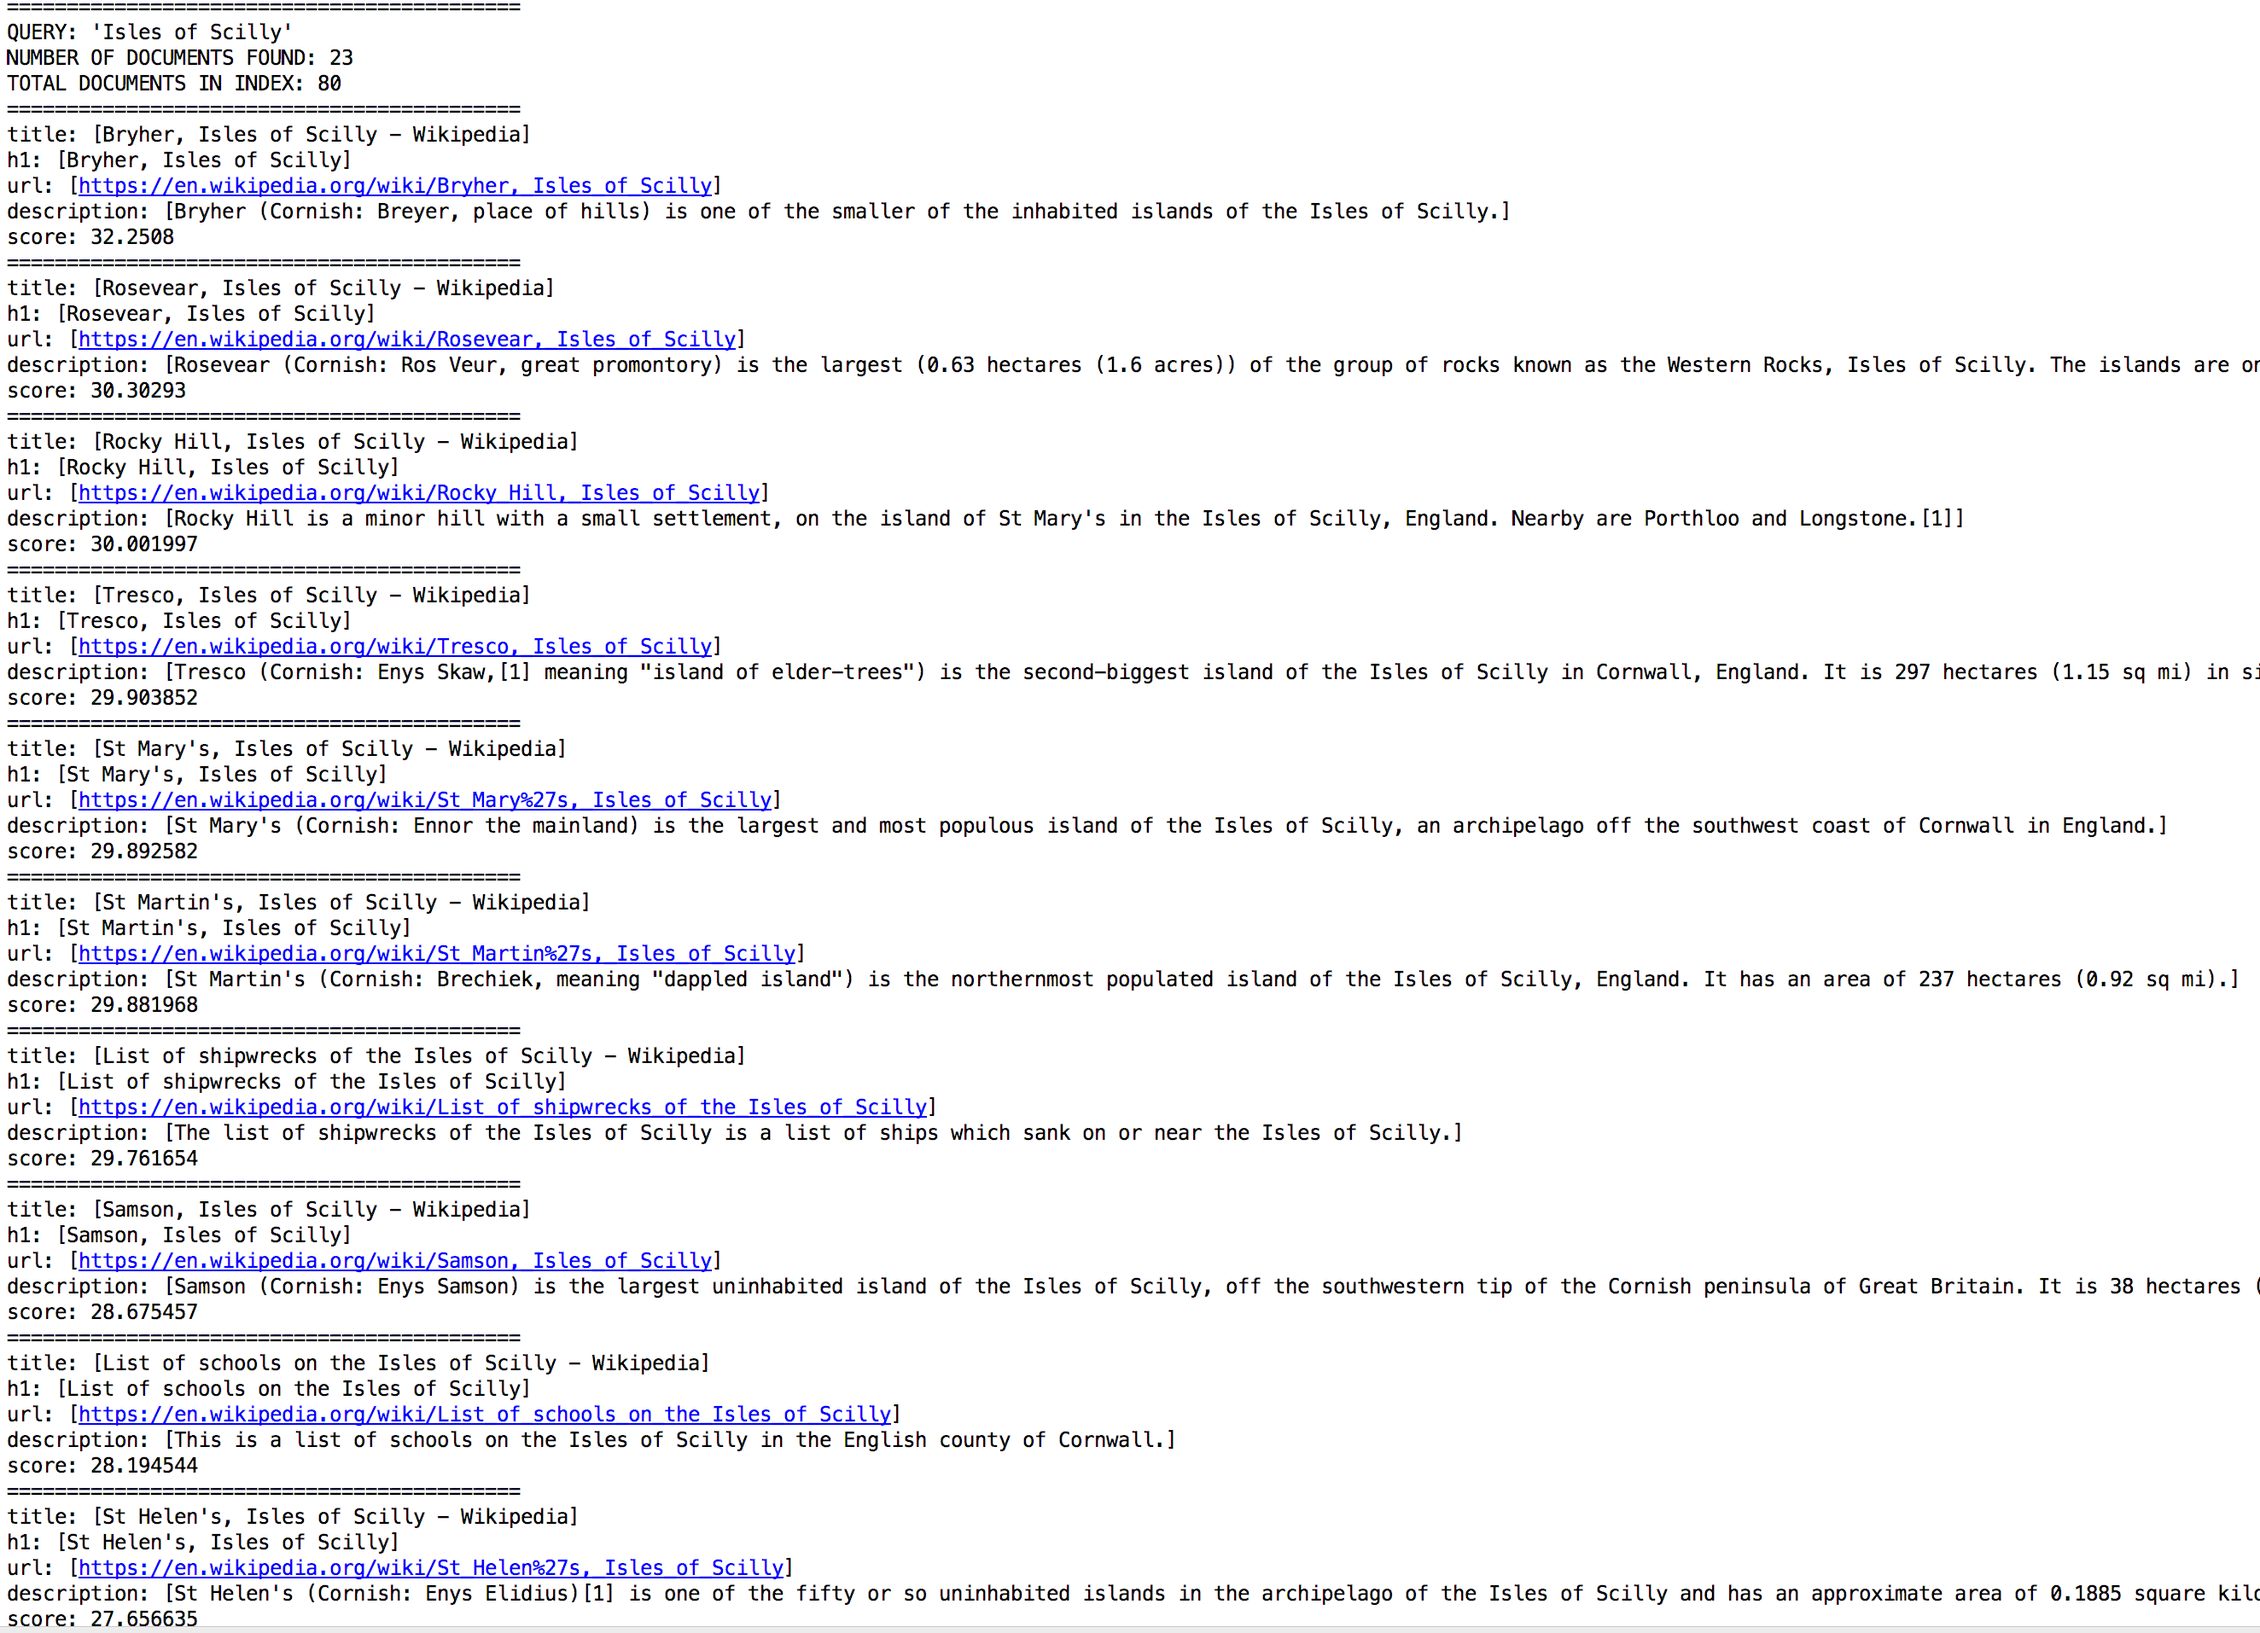
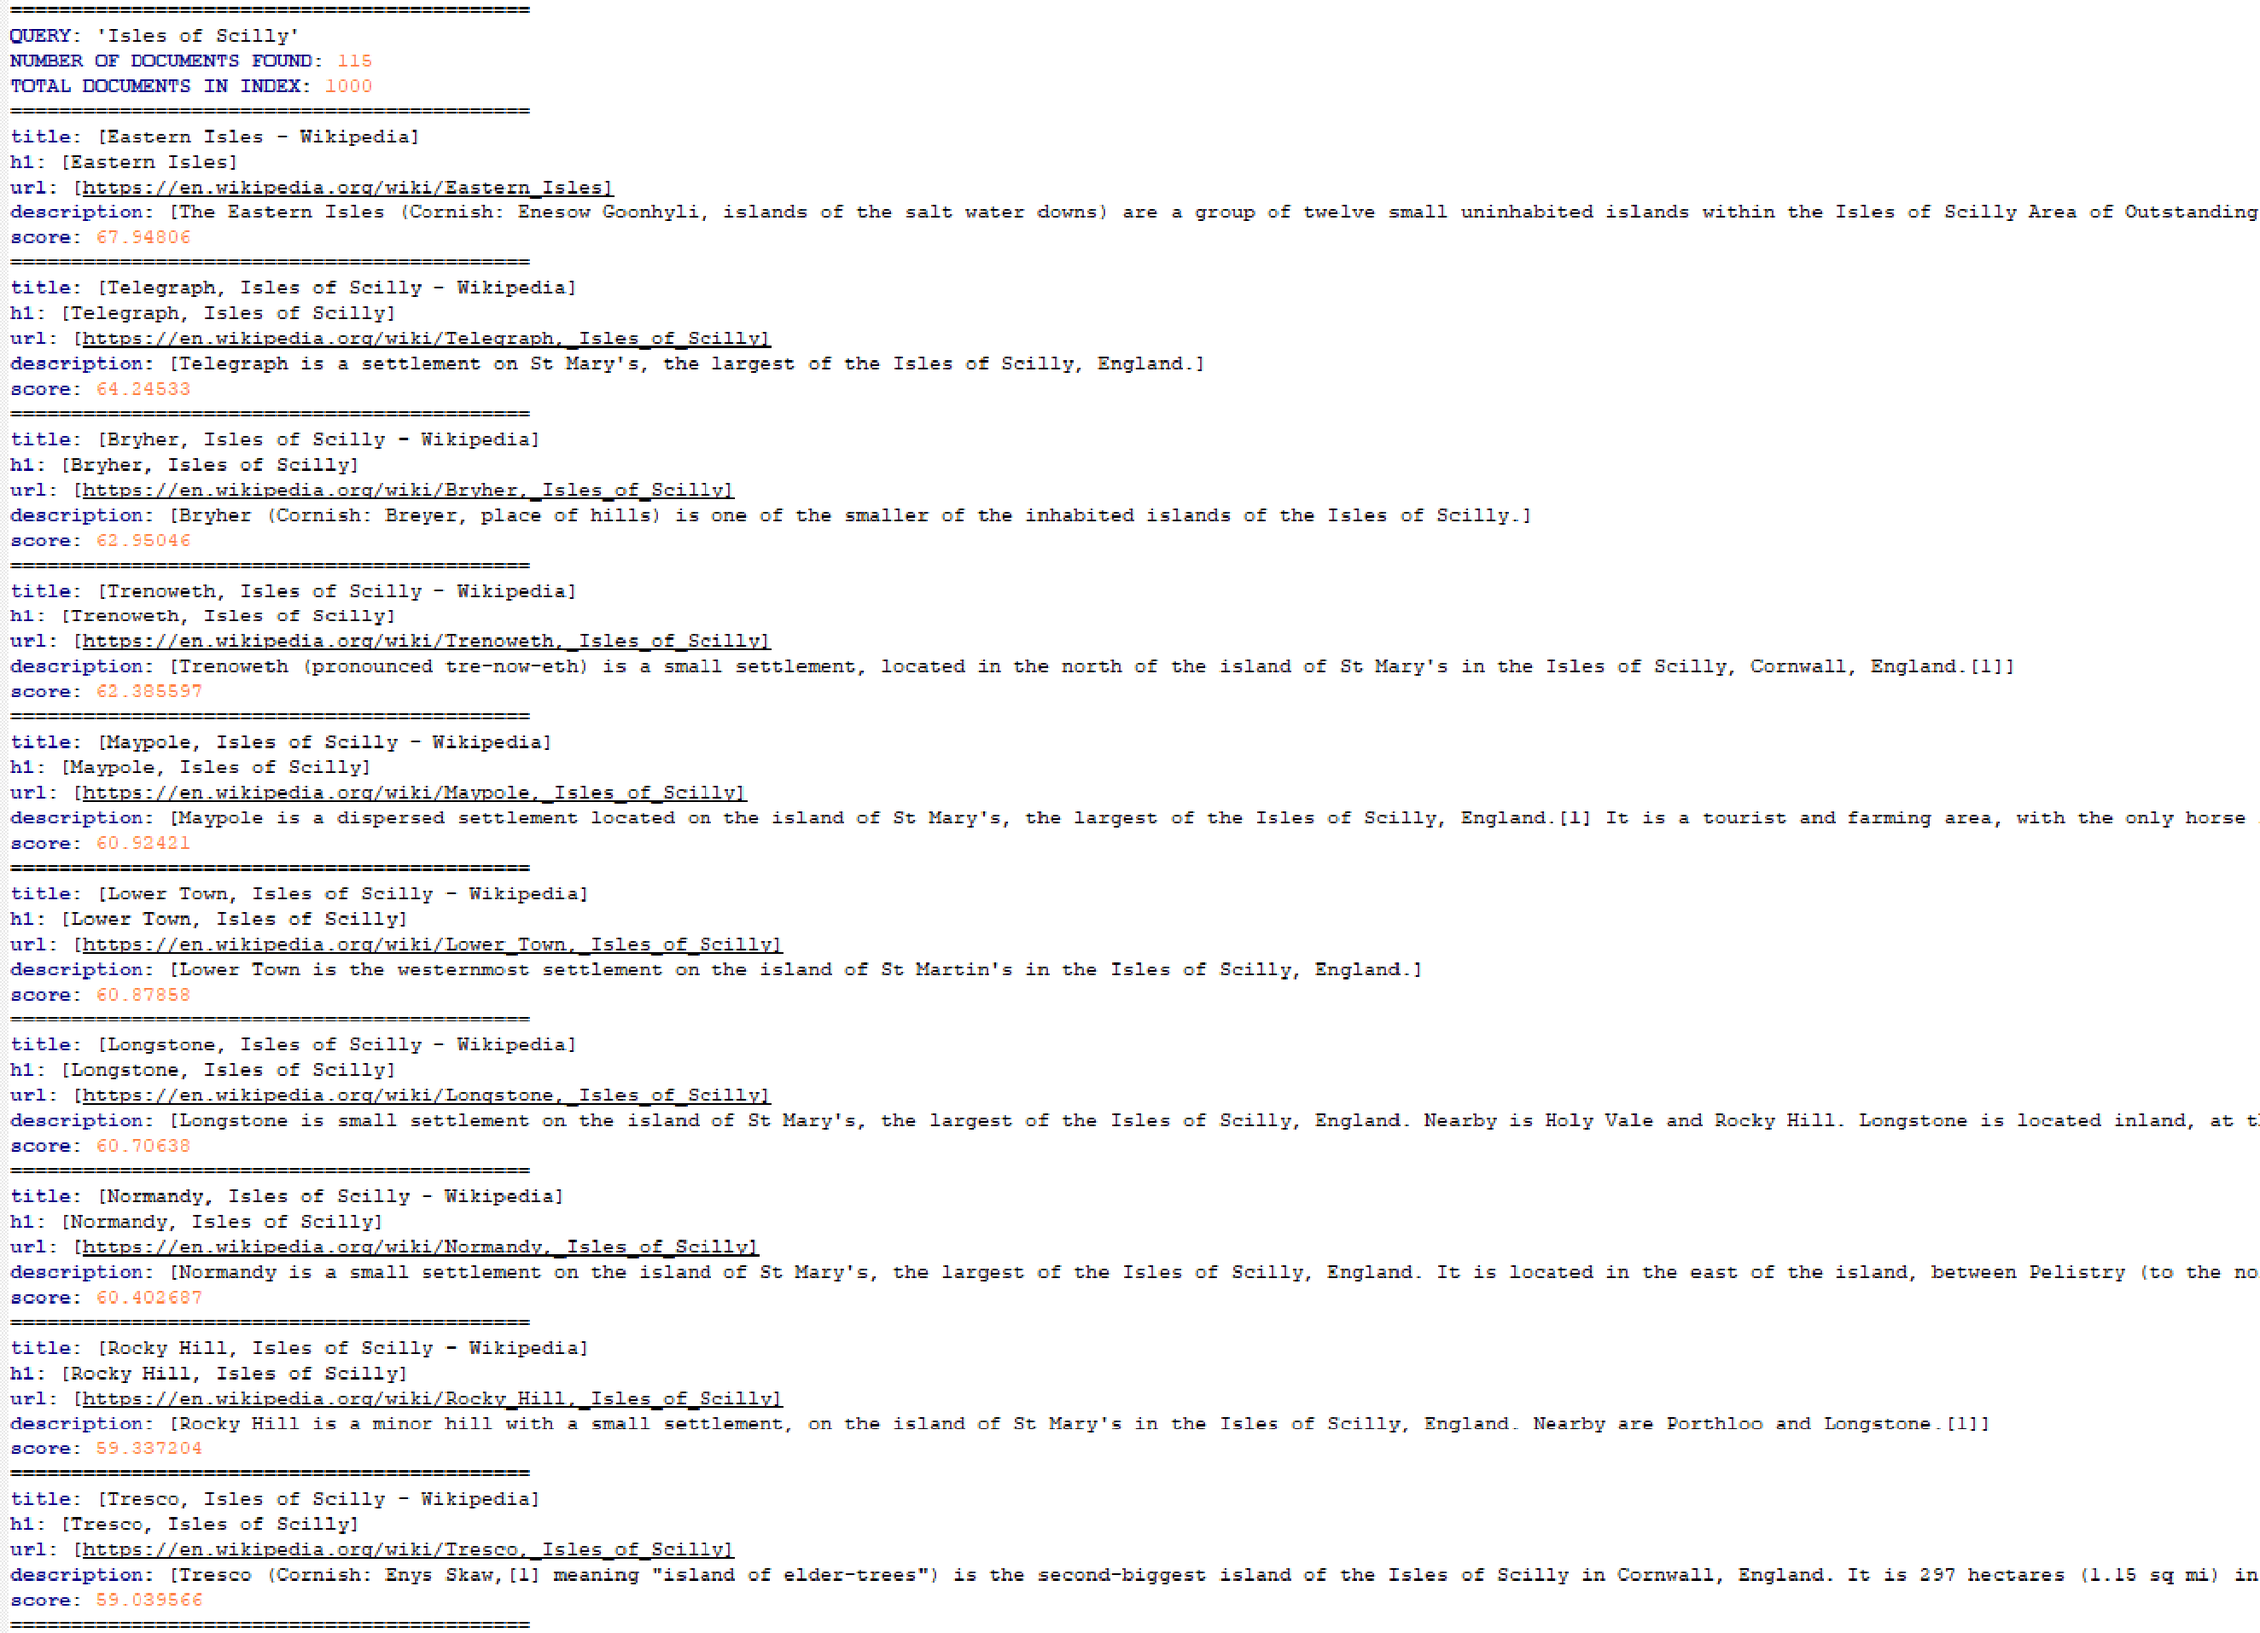
Add infobox in solr

diff --git a/src/main/java/Crawler2.java b/src/main/java/Crawler2.java
@@ -14,6 +14,7 @@ import org.apache.solr.client.solrj.impl.ConcurrentUpdateSolrClient;
 import org.apache.solr.common.SolrInputDocument;
 import org.jsoup.Jsoup;
 import org.jsoup.nodes.Document;
+import org.jsoup.nodes.Element;
 
 import java.io.IOException;
 import java.util.ArrayList;
@@ -124,8 +125,24 @@ public class Crawler2 extends WebCrawler {
 
             // Retrieve h1
             String h1 = doc.body().getElementsByTag("h1").first().text();
+
+            // Retrieve the infobox
+            String infobox = "";
+            Element infoboxElement = doc.body().getElementsByClass("infobox").first();
+            if(infoboxElement != null){
+                infobox = infoboxElement.text();
+            }
+
             // First paragraph of wikipedia pages contains a short description
-            String description = doc.body().getElementById("mw-content-text").getElementsByTag("p").first().text();
+            String description = "";
+            Element contentElement = doc.body().getElementById("mw-content-text");
+            if(contentElement != null) {
+                Element descriptionElement = contentElement.getElementsByTag("p").first();
+                if (descriptionElement != null) {
+                    description = descriptionElement.text();
+                }
+            }
+
             // Get all body content
             String content = doc.body().text();
 
@@ -140,6 +157,7 @@ public class Crawler2 extends WebCrawler {
             doSolrInputDocument.setField("url", page.getWebURL().getURL());
             doSolrInputDocument.setField("title", title);
             doSolrInputDocument.setField("h1", h1);
+            doSolrInputDocument.setField("infobox", infobox);
             doSolrInputDocument.setField("description", description);
             doSolrInputDocument.setField("content", content);
             doSolrInputDocument.setField("categories", categories);
@@ -159,9 +177,9 @@ public class Crawler2 extends WebCrawler {
 
         Header[] responseHeaders = page.getFetchResponseHeaders();
         if (responseHeaders != null) {
-            logger.debug("Response headers:");
+            //logger.debug("Response headers:");
             for (Header header : responseHeaders) {
-                logger.debug("\t{}: {}", header.getName(), header.getValue());
+                //logger.debug("\t{}: {}", header.getName(), header.getValue());
             }
         }
 

diff --git a/src/main/java/Search.java b/src/main/java/Search.java
@@ -35,9 +35,9 @@ public class Search {
         final Map<String, String> queryParamMap = new HashMap<String, String>();
 
         // boost title and h1 more than description more than categories
-        queryParamMap.put("q", String.format("(title:%s OR h1:%s)^5 (description:%s)^4 (categories:%s)^1.6 (content:%s)^1",
-                query, query, query, query, query));
-        queryParamMap.put("fl", "title,h1,url,description,score");
+        queryParamMap.put("q", String.format("(title:%s OR h1:%s)^5 (description:%s)^4 (infobox:%s)^2 (categories:%s)^1.6 (content:%s)^1",
+                query, query, query, query, query, query));
+        queryParamMap.put("fl", "title,h1,url,description,score,infobox");
         MapSolrParams queryParams = new MapSolrParams(queryParamMap);
 
         // Run query and display response

diff --git a/src/main/java/Crawler1.java b/src/main/java/Crawler1.java
@@ -71,6 +71,9 @@ public class Crawler1 extends WebCrawler {
         // Start the crawl. This is a blocking operation, meaning that the code
         // will reach the line after this only when crawling is finished.
         controller.start(Crawler1.class, numberOfCrawlers);
+
+        // if any doc left
+        solr.commit(true, true);
     }
 
 
